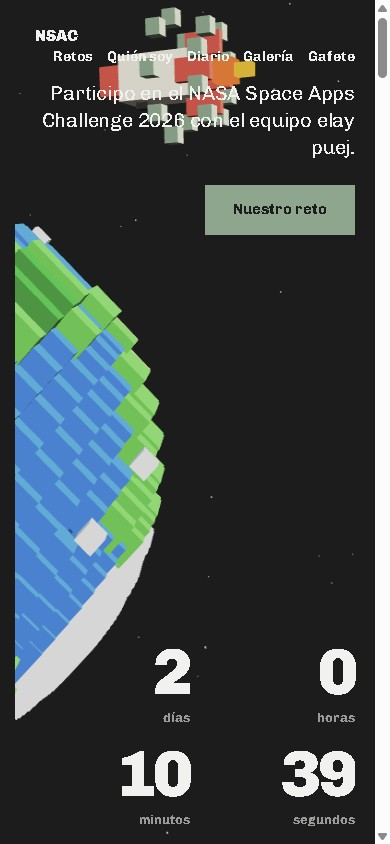
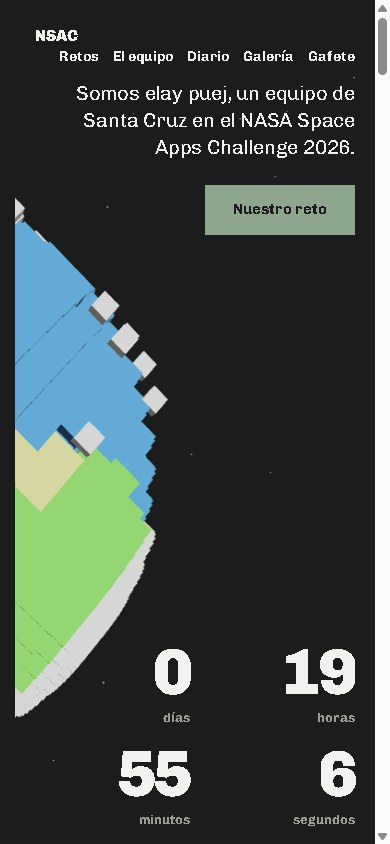
imagen/nsac.jpg: captura fresca del hero con dos integrantes en el equipo
Generated with [Devin](https://devin.ai)

diff --git a/docs/log/2026-11-13.md b/docs/log/2026-11-13.md
@@ -1,0 +1,15 @@
+---
+type: sesion
+status: cerrada
+created: 2026-11-13
+tags: [log]
+---
+
+# 2026-11-13
+
+## Tarjeta NSAC refrescada
+
+- `imagen/nsac.jpg` regenerada con el hero nuevo de NSAC: el claim ya
+  dice «Somos elay puej» (Leonardo Fernández se sumó al equipo)
+  y la cuenta marca menos de 20 horas. Mismo archivo que
+  `assets/img/og-cover.jpg` del repo NSAC (commit `a4ab62e` allá).
